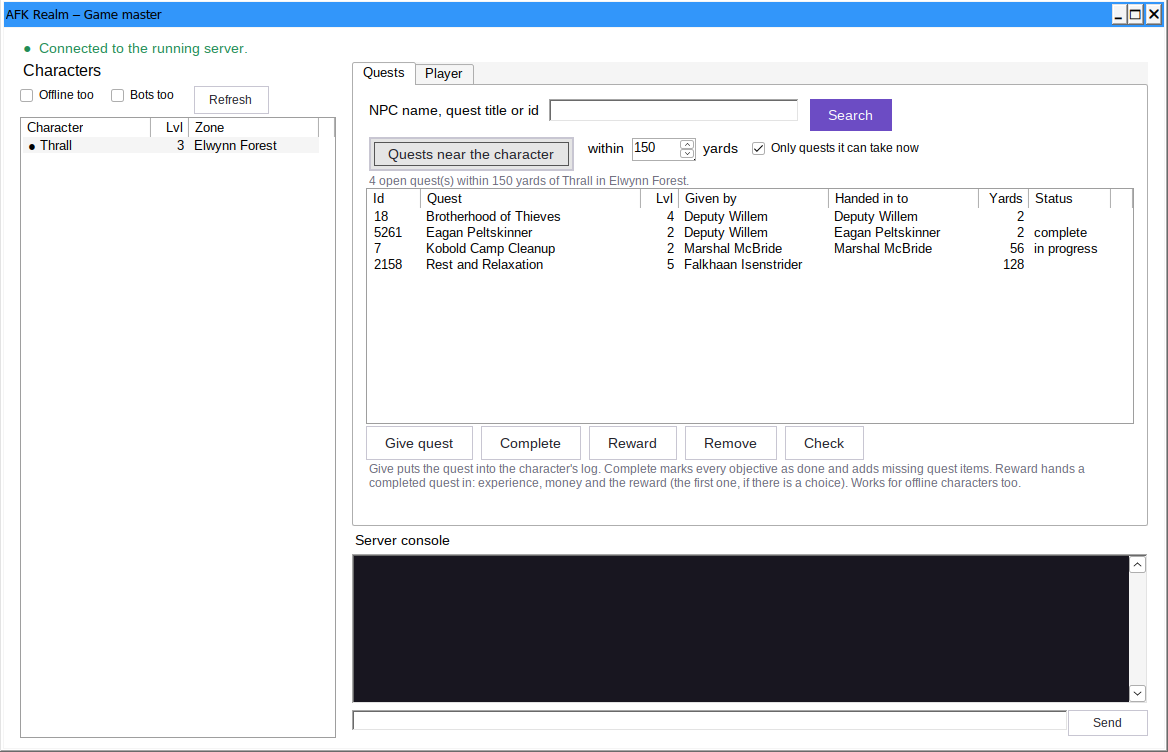
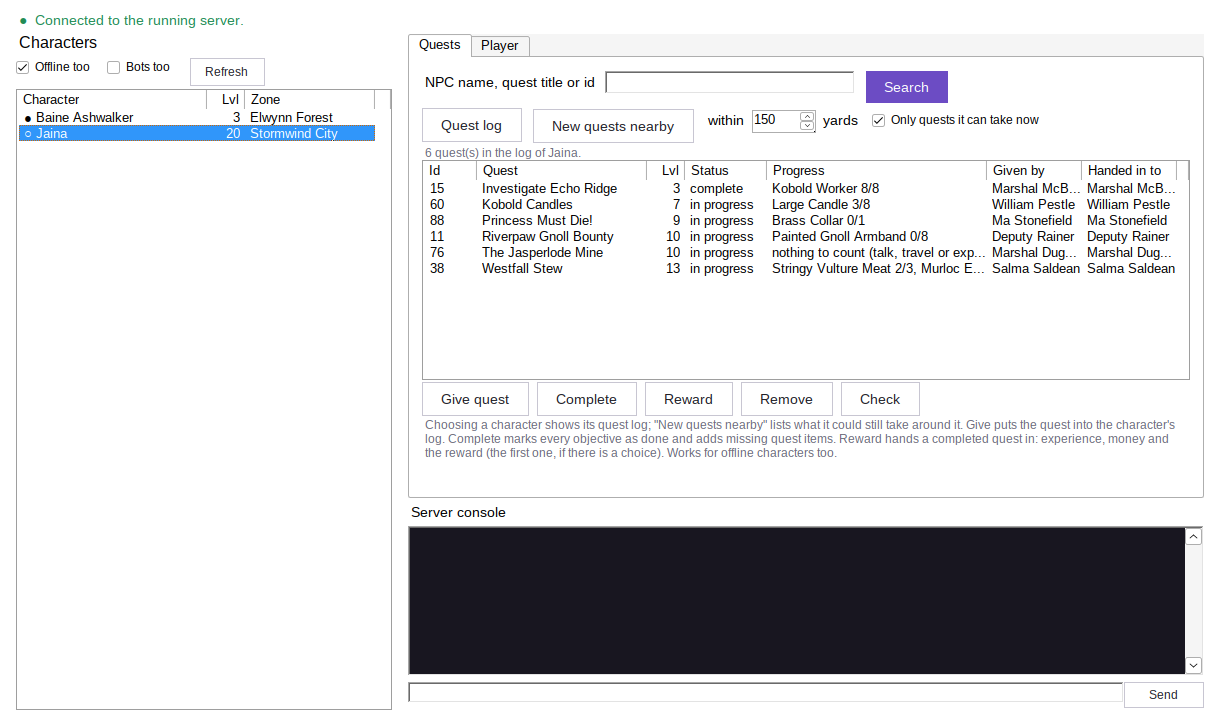
0.6.4-preview: the quest log of a character in the game master tools; the search around a character lists only quests it does not have yet

Changed region(s): [[0.0, 0.0, 1.0, 1.0]]

diff --git a/src/GameMasterDialog.cs b/src/GameMasterDialog.cs
@@ -58,17 +58,21 @@ namespace CoAInstaller
             quests.Columns.Add("Id", 54, HorizontalAlignment.Right);
             quests.Columns.Add("Quest", 220);
             quests.Columns.Add("Lvl", 38, HorizontalAlignment.Right);
+            quests.Columns.Add("Status", 82);
+            quests.Columns.Add("Progress", 0);
             quests.Columns.Add("Given by", 150);
             quests.Columns.Add("Handed in to", 150);
             quests.Columns.Add("Yards", 50, HorizontalAlignment.Right);
-            quests.Columns.Add("Status", 82);
+            quests.ShowItemToolTips = true;
             var search = Ui.Row(); search.Dock = DockStyle.Top; search.Margin = new Padding(0);
             search.Controls.Add(new Label { Text = "NPC name, quest title or id", AutoSize = true, Font = Ui.Base, Margin = new Padding(0, 6, 6, 0) });
             search.Controls.Add(questText);
             var find = Ui.Primary("Search"); find.Padding = new Padding(10, 3, 10, 3);
             search.Controls.Add(find);
             var near = Ui.Row(); near.Dock = DockStyle.Top; near.Margin = new Padding(0);
-            var nearBtn = Ui.Secondary("Quests near the character"); nearBtn.Padding = new Padding(10, 3, 10, 3);
+            var logBtn = Ui.Secondary("Quest log"); logBtn.Padding = new Padding(10, 3, 10, 3); logBtn.Margin = new Padding(0, 2, 8, 2);
+            near.Controls.Add(logBtn);
+            var nearBtn = Ui.Secondary("New quests nearby"); nearBtn.Padding = new Padding(10, 3, 10, 3);
             near.Controls.Add(nearBtn);
             near.Controls.Add(new Label { Text = "within", AutoSize = true, Font = Ui.Base, Margin = new Padding(8, 6, 4, 0) });
             near.Controls.Add(radius);
@@ -80,8 +84,9 @@ namespace CoAInstaller
             questButtons.Controls.Add(Action("Reward", () => Quest("reward")));
             questButtons.Controls.Add(Action("Remove", () => Quest("remove")));
             questButtons.Controls.Add(Action("Check", () => Quest("status")));
-            var questNote = new Label { Dock = DockStyle.Bottom, Height = 50, Font = Ui.Small, ForeColor = Ui.Muted,
-                Text = "Give puts the quest into the character's log. Complete marks every objective as done and adds missing quest items. " +
+            var questNote = new Label { Dock = DockStyle.Bottom, Height = 66, Font = Ui.Small, ForeColor = Ui.Muted,
+                Text = "Choosing a character shows its quest log; \"New quests nearby\" lists what it could still take around it. " +
+                       "Give puts the quest into the character's log. Complete marks every objective as done and adds missing quest items. " +
                        "Reward hands a completed quest in: experience, money and the reward (the first one, if there is a choice). Works for offline characters too." };
             var questTab = new TabPage("Quests") { BackColor = Color.White, Padding = new Padding(10) };
             questTab.Controls.Add(quests); questTab.Controls.Add(questHint); questTab.Controls.Add(near); questTab.Controls.Add(search);
@@ -150,10 +155,16 @@ namespace CoAInstaller
 
             Controls.Add(right); Controls.Add(left); Controls.Add(top);
 
-            refresh.Click += (s, e) => LoadPeople();
+            refresh.Click += (s, e) => LoadPeople(true);
             offline.CheckedChanged += (s, e) => LoadPeople();
             bots.CheckedChanged += (s, e) => LoadPeople();
-            people.SelectedIndexChanged += (s, e) => { if (quests.Items.Count > 0 && quests.Tag as string == "search") SearchQuests(); };
+            // A search stays a search, with the status of whoever is chosen; otherwise the list follows the character.
+            people.SelectedIndexChanged += (s, e) =>
+            {
+                if (quests.Tag as string == "search" && quests.Items.Count > 0) SearchQuests();
+                else if (Who != null) ShowLog(false);
+            };
+            logBtn.Click += (s, e) => { if (Who == null) Ui.Error(this, "Choose a character on the left first."); else ShowLog(true); };
             find.Click += (s, e) => SearchQuests();
             questText.KeyDown += (s, e) => { if (e.KeyCode == Keys.Enter) { e.SuppressKeyPress = true; SearchQuests(); } };
             nearBtn.Click += (s, e) => NearQuests();
@@ -207,7 +218,10 @@ namespace CoAInstaller
 
         // ---------------------------------------------------------------- characters
 
-        void LoadPeople()
+        void LoadPeople() { LoadPeople(false); }
+
+        /// <param name="thenLog">Show the quest log of the chosen character afterwards, as it is right now.</param>
+        void LoadPeople(bool thenLog)
         {
             bool off = offline.Checked, bot = bots.Checked;
             int keep = Who != null ? Who.Guid : 0;
@@ -234,6 +248,7 @@ namespace CoAInstaller
                     people.EndUpdate();
                     if (people.SelectedItems.Count == 0 && people.Items.Count == 1) people.Items[0].Selected = true;
                     if (list.Count == 0) Print(off ? "No characters found." : "Nobody is online. Tick \"Offline too\" to see all characters.");
+                    if (thenLog && Who != null) ShowLog(true);
                 });
             });
         }
@@ -290,12 +305,21 @@ namespace CoAInstaller
                 var it = new ListViewItem(q.Id.ToString()) { Tag = q };
                 it.SubItems.Add(q.Title);
                 it.SubItems.Add(q.Level > 0 ? q.Level.ToString() : "");
+                it.SubItems.Add(q.StatusText);
+                it.SubItems.Add(q.Progress);
                 it.SubItems.Add(q.Givers);
                 it.SubItems.Add(q.Takers);
                 it.SubItems.Add(q.Distance >= 0 ? Math.Round(q.Distance).ToString() : "");
-                it.SubItems.Add(q.StatusText);
+                if (q.Progress.Length > 0) it.ToolTipText = q.Title + ": " + q.Progress;
                 quests.Items.Add(it);
             }
+            // The quest log shows how far each objective is instead of a distance; the other lists the other way round.
+            bool log = kind == "log";
+            quests.Columns[1].Width = log ? 170 : 220;
+            quests.Columns[4].Width = log ? 220 : 0;
+            quests.Columns[5].Width = log ? 95 : 150;
+            quests.Columns[6].Width = log ? 95 : 150;
+            quests.Columns[7].Width = log ? 0 : 50;
             quests.EndUpdate();
             quests.Tag = kind;
             questHint.Text = hint;
@@ -306,6 +330,7 @@ namespace CoAInstaller
             string text = questText.Text.Trim();
             if (text.Length == 0) return;
             var who = Who;
+            ++logTicket;        // a quest log still on its way must not replace the result
             Background(() =>
             {
                 var list = GameData.SearchQuests(inst, text, who != null ? who.Guid : 0);
@@ -314,11 +339,38 @@ namespace CoAInstaller
             });
         }
 
+        int logTicket;
+
+        /// <summary>
+        /// The quest log of the chosen character. With <paramref name="live"/> the server saves first, so
+        /// the list shows this very moment; without, what the server saved last (a few minutes old at most).
+        /// </summary>
+        void ShowLog(bool live)
+        {
+            var who = Who;
+            if (who == null) return;
+            int ticket = ++logTicket;
+            live = live && who.Online && AdminLink.Problem(inst, ctl) == null;
+            questHint.Text = "Reading the quest log of " + who.Name + " …";
+            Background(() =>
+            {
+                if (live) { try { AdminLink.Run(inst, "saveall"); System.Threading.Thread.Sleep(1500); } catch { live = false; } }
+                var list = GameData.QuestLog(inst, who.Guid);
+                UI(() =>
+                {
+                    if (ticket != logTicket) return;        // another character was chosen in the meantime
+                    Fill(list, "log", (list.Count == 0 ? who.Name + " has no quests in its log" : list.Count + " quest(s) in the log of " + who.Name) +
+                        (!who.Online ? "." : live ? ", as of now." : ", as of the server's last save. \"Quest log\" reads it fresh."));
+                });
+            });
+        }
+
         void NearQuests()
         {
             var who = Who;
             if (who == null) { Ui.Error(this, "Choose a character on the left first."); return; }
             int r = (int)radius.Value; bool level = levelOnly.Checked;
+            ++logTicket;
             bool live = who.Online && AdminLink.Problem(inst, ctl) == null;
             questHint.Text = "Looking around " + who.Name + " …";
             Background(() =>
@@ -328,7 +380,7 @@ namespace CoAInstaller
                 var now = GameData.Character(inst, who.Guid);
                 if (now == null) { UI(() => questHint.Text = "The character was not found."); return; }
                 var list = GameData.QuestsNear(inst, now, r, level);
-                UI(() => Fill(list, "near", (list.Count == 0 ? "No open quests" : list.Count + " open quest(s)") + " within " + r + " yards of " + now.Name +
+                UI(() => Fill(list, "near", (list.Count == 0 ? "No new quests" : list.Count + " quest(s) it does not have yet") + " within " + r + " yards of " + now.Name +
                     " in " + GameData.ZoneName(inst, now.Zone) + (live ? "." : " (position as last saved by the server).") +
                     (level ? "" : " Quests it cannot take yet are included; \"Check\" tells why.")));
             });
@@ -346,7 +398,7 @@ namespace CoAInstaller
                 else if (verb == "complete") quest.Status = 1;
                 else if (verb == "reward") quest.Status = 100;
                 else if (verb == "remove") quest.Status = -1;
-                if (item != null && verb != "status") item.SubItems[6].Text = quest.StatusText;
+                if (item != null && verb != "status") item.SubItems[3].Text = quest.StatusText;
             });
         }
     }

diff --git a/src/GameData.cs b/src/GameData.cs
@@ -16,6 +16,7 @@ namespace CoAInstaller
     class QuestInfo
     {
         public int Id, Level, MinLevel; public string Title = "", Givers = "", Takers = "";
+        public string Progress = "";       // the objectives with their counts, for a quest in the log
         public int Status = -1;            // -1 not taken, 1 complete, 3 in progress, 5 failed, 100 rewarded
         public double Distance = -1;       // to the nearest giver or taker, when searched by position
         public bool CanTake = true;        // level, race, class and the quest before it allow it
@@ -138,9 +139,69 @@ namespace CoAInstaller
             return list;
         }
 
+        /// <summary>The query behind <see cref="QuestLog"/>: one row per quest in the character's log.</summary>
+        internal static string QuestLogSql(int guid)
+        {
+            var sb = new System.Text.StringBuilder();
+            sb.Append("SELECT q.ID, q.LogTitle, q.QuestLevel, q.MinLevel, ");
+            sb.Append(Names("creature_queststarter", "creature_template", ", ")).Append(", ").Append(Names("gameobject_queststarter", "gameobject_template", ", ")).Append(", ");
+            sb.Append(Names("creature_questender", "creature_template", ", ")).Append(", ").Append(Names("gameobject_questender", "gameobject_template", ", ")).Append(", s.status");
+            // Four things to kill, use or talk to (a negative id is an object), then six things to bring.
+            for (int i = 1; i <= 4; i++)
+                sb.Append(", q.RequiredNpcOrGoCount").Append(i).Append(", s.mobcount").Append(i).Append(", REPLACE(IFNULL(IFNULL(NULLIF(q.ObjectiveText").Append(i).Append(", ''), IF(q.RequiredNpcOrGo").Append(i)
+                  .Append(" > 0, (SELECT t.name FROM ").Append(W).Append("creature_template t WHERE t.entry = q.RequiredNpcOrGo").Append(i)
+                  .Append("), (SELECT t.name FROM ").Append(W).Append("gameobject_template t WHERE t.entry = -q.RequiredNpcOrGo").Append(i)
+                  .Append("))), CONCAT(IF(q.RequiredNpcOrGo").Append(i).Append(" > 0, 'creature ', 'object '), ABS(q.RequiredNpcOrGo").Append(i).Append("))), '\t', ' ')");
+            for (int i = 1; i <= 6; i++)
+                sb.Append(", q.RequiredItemCount").Append(i).Append(", s.itemcount").Append(i).Append(", REPLACE(IFNULL((SELECT t.name FROM ").Append(W)
+                  .Append("item_template t WHERE t.entry = q.RequiredItemId").Append(i).Append("), ''), '\t', ' ')");
+            sb.Append(" FROM ").Append(C).Append("character_queststatus s JOIN ").Append(W).Append("quest_template q ON q.ID = s.quest WHERE s.guid = ").Append(N(guid))
+              .Append(" AND s.status <> 0 ORDER BY q.QuestLevel, q.LogTitle LIMIT 100;");
+            return sb.ToString();
+        }
+
+        /// <summary>
+        /// What the character has in its quest log right now, with how far each objective is. For a
+        /// character that is online this is the state of the server's last save.
+        /// </summary>
+        public static List<QuestInfo> QuestLog(Install inst, int guid)
+        {
+            var list = new List<QuestInfo>();
+            if (guid <= 0) return list;
+            foreach (var row in MySql.Query(inst, DbLogin.FromConfig(inst), "SET SESSION group_concat_max_len = 4000;\n" + QuestLogSql(guid)))
+            {
+                var q = ParseLogRow(row);
+                if (q != null) list.Add(q);
+            }
+            return list;
+        }
+
+        internal static QuestInfo ParseLogRow(string row)
+        {
+            var f = row.Split('\t');
+            if (f.Length < 9 + 30) return null;
+            var q = new QuestInfo
+            {
+                Id = int.Parse(f[0], CultureInfo.InvariantCulture), Title = f[1], Level = int.Parse(f[2], CultureInfo.InvariantCulture), MinLevel = int.Parse(f[3], CultureInfo.InvariantCulture),
+                Givers = Join(f[4], f[5]), Takers = Join(f[6], f[7]), Status = int.Parse(f[8], CultureInfo.InvariantCulture)
+            };
+            var parts = new List<string>();
+            for (int i = 0; i < 10; i++)
+            {
+                int need, have; string name = f[9 + i * 3 + 2];
+                if (!int.TryParse(f[9 + i * 3], NumberStyles.Integer, CultureInfo.InvariantCulture, out need) || need <= 0) continue;
+                int.TryParse(f[9 + i * 3 + 1], NumberStyles.Integer, CultureInfo.InvariantCulture, out have);
+                if (name == "NULL" || name.Length == 0) name = i < 4 ? "objective " + (i + 1) : "item";
+                // The server stops counting when the quest is complete; the log then shows it as done.
+                parts.Add(name + " " + (q.Status == 1 ? need : Math.Min(have, need)) + "/" + need);
+            }
+            q.Progress = parts.Count > 0 ? string.Join(", ", parts.ToArray()) : (q.Status == 1 ? "done" : "nothing to count (talk, travel or explore)");
+            return q;
+        }
+
         /// <summary>
         /// Quests whose giver stands within <paramref name="radius"/> yards of the character and that
-        /// it has not done yet, plus quests in its log that can be handed in nearby. With
+        /// it neither has in its log nor has done. With
         /// <paramref name="takeableOnly"/> quests are left out that its level, race or class do not
         /// allow or that need an earlier quest first.
         /// </summary>
@@ -185,8 +246,8 @@ namespace CoAInstaller
                 if (q.Distance < 0 || d < q.Distance) q.Distance = d;
                 if (f[4] == "give") q.Givers = Join(q.Givers, f[5]); else q.Takers = Join(q.Takers, f[5]);
             }
-            // A quest the character does not have is only of interest when its giver is near.
-            return order.Where(q => (q.Status >= 0 || q.Givers.Length > 0) && (!takeableOnly || q.Status >= 0 || q.CanTake))
+            // What is in the log already is shown by the quest log; here only what it could still take, from a giver nearby.
+            return order.Where(q => q.Status < 0 && q.Givers.Length > 0 && (!takeableOnly || q.CanTake))
                         .OrderBy(q => q.Distance).ToList();
         }
 

diff --git a/src/Core.cs b/src/Core.cs
@@ -23,7 +23,7 @@ namespace CoAInstaller
         public const string Name = "AFK Realm";                   // window titles, dialogs
         public const string ShortName = "AFK Realm";              // desktop shortcut, firewall rules
         public const string FileStem = "AFK-Realm";                // exe name, settings folder
-        public const string Version = "0.6.3-preview";            // pre-release until testers confirm it works
+        public const string Version = "0.6.4-preview";            // pre-release until testers confirm it works
         public const string Tagline = "build, run and tweak your own server the lazy way";
         public const string BuildsFor = "Conquest of AzerothCore";
         public const string WindowTitle = Name + " (preview)";

diff --git a/README.md b/README.md
@@ -34,7 +34,7 @@ Pre-built repacks go stale quickly. Building from source keeps you on the latest
 - **Server settings**: a list of popular options (XP, drop and reputation rates, flight paths, cross-faction play, Playerbots count and levels) plus every option of the worldserver and all module configs, searchable, with the description from each template and one-click reset to the default
 - **Accounts**: create accounts with GM levels, list all player accounts (bot accounts are filtered out) with their characters, delete accounts, set new passwords and change access levels
 - **Account transfer**: export an account with all its characters, items, mail and pets to an `.afkaccount` file and import it on another server – ids are renumbered, taken names are renamed at the next login
-- **Game master tools**: a line to the running server (its SOAP service, switched on for this PC only) with a quest helper – find quests by NPC name, quest title or id, or list the open quests around a character, then give, complete, reward or remove them with one click – plus unstuck, revive, level, rename, gold and mail for a character, announcements, and a console for every other GM command
+- **Game master tools**: a line to the running server (its SOAP service, switched on for this PC only) with a quest helper – see a character's quest log with the progress of every objective, find quests by NPC name, quest title or id, or list the new quests around a character, then give, complete, reward or remove them with one click – plus unstuck, revive, level, rename, gold and mail for a character, announcements, and a console for every other GM command
 - **Modules**: modules made for this server at the top ("Modules by AFK Realm", first of them: the bots use the auction house like players), then the AzerothCore module catalog: browse it, tick modules to install them and untick them to remove them. Before installing, each module is checked (database changes, settings, core patches, client files, age) and its README is one click away. The server is backed up and rebuilt; if a module does not compile, it is taken out again and the server stays as it was. The database changes of every module installed this way are recorded, so removing it undoes them
 - **Bot reset**: one click deletes all random bots with their characters, guilds and arena teams (your own characters are kept); new bots are created at the next start
 - **Map data**: extracts maps, vmaps, mmaps and the CoA client DBC tables from your game client with one click

diff --git a/docs/MANUAL.md b/docs/MANUAL.md
@@ -136,8 +136,13 @@ The Quests tab solves these by doing by hand what the game should have done.
 
 **Step 1: find the quest**
 
+![The quest log of a character](screenshots/14-game-master.png)
+
+- **Quest log**: choosing a character on the left shows what it has in its quest log right now, with **Progress**: how far each objective is (*Large Candle 3/8*). A player who is stuck somewhere in the wilds only has to tell you his name - you see which quest is the problem without him walking back to the quest giver. For a character that is online the list shows the server's last save; **Quest log** (or *Refresh* above the characters) lets the server save first and shows this very moment.
 - **Search**: type the name of the NPC (or object), the title of the quest, or the quest id, and press *Search*. The list shows every matching quest with who gives it (*Given by*) and who takes it (*Handed in to*). This comes from your server's own database, so it matches CoA; online databases often do not.
-- **Quests near the character**: lists the open quests around the selected character, nearest first, with the distance in yards. It also lists quests the character already has and can hand in nearby. With **Only quests it can take now** ticked, quests are left out that its level, race or class do not allow or that need an earlier quest first.
+- **New quests nearby**: lists the quests around the selected character that it does not have yet and has not done, nearest first, with the distance to the quest giver in yards. What is in its quest log already is left out - that is what *Quest log* shows. With **Only quests it can take now** ticked, quests are left out that its level, race or class do not allow or that need an earlier quest first.
+
+  ![New quests nearby](screenshots/20-new-quests-nearby.png)
 
   For a character that is online, the server saves all characters first so that the position is the current one.
 

diff --git a/RELEASE_NOTES.md b/RELEASE_NOTES.md
@@ -1,6 +1,11 @@
-# AFK Realm 0.6.3 – preview
+# AFK Realm 0.6.4 – preview
 
 Build, run and tweak your own Conquest of Azeroth server (AzerothCore fork with Playerbots) on Windows 10/11.
+
+## New in 0.6.4
+
+- **See a character's quest log.** In the game master tools, choosing a character now shows the quests it has in its log, with the progress of every objective (*Large Candle 3/8*). A player who is stuck only has to tell you his name: you see the quest that causes the trouble and can complete, reward or remove it right there. *Quest log* and *Refresh* read the log fresh from the running server.
+- **New quests nearby.** The search around a character now leaves out what it already has in its log and lists only quests it could still take.
 
 ## New in 0.6.3
 

diff --git a/CHANGELOG.md b/CHANGELOG.md
@@ -1,5 +1,10 @@
 # Changelog
 
+## 0.6.4-preview
+
+- Game master tools: choosing a character shows its quest log, with how far each objective is ("Large Candle 3/8"); "Quest log" and "Refresh" read it fresh from the running server
+- "Quests near the character" is now "New quests nearby" and lists only quests the character does not have in its log yet
+
 ## 0.6.3-preview
 
 - Fix: "Reset random bots" reported "The worldserver started normally instead of deleting the bots. Nothing was deleted." on fast PCs although the bots had been deleted: the worldserver finished loading before it shut itself down
